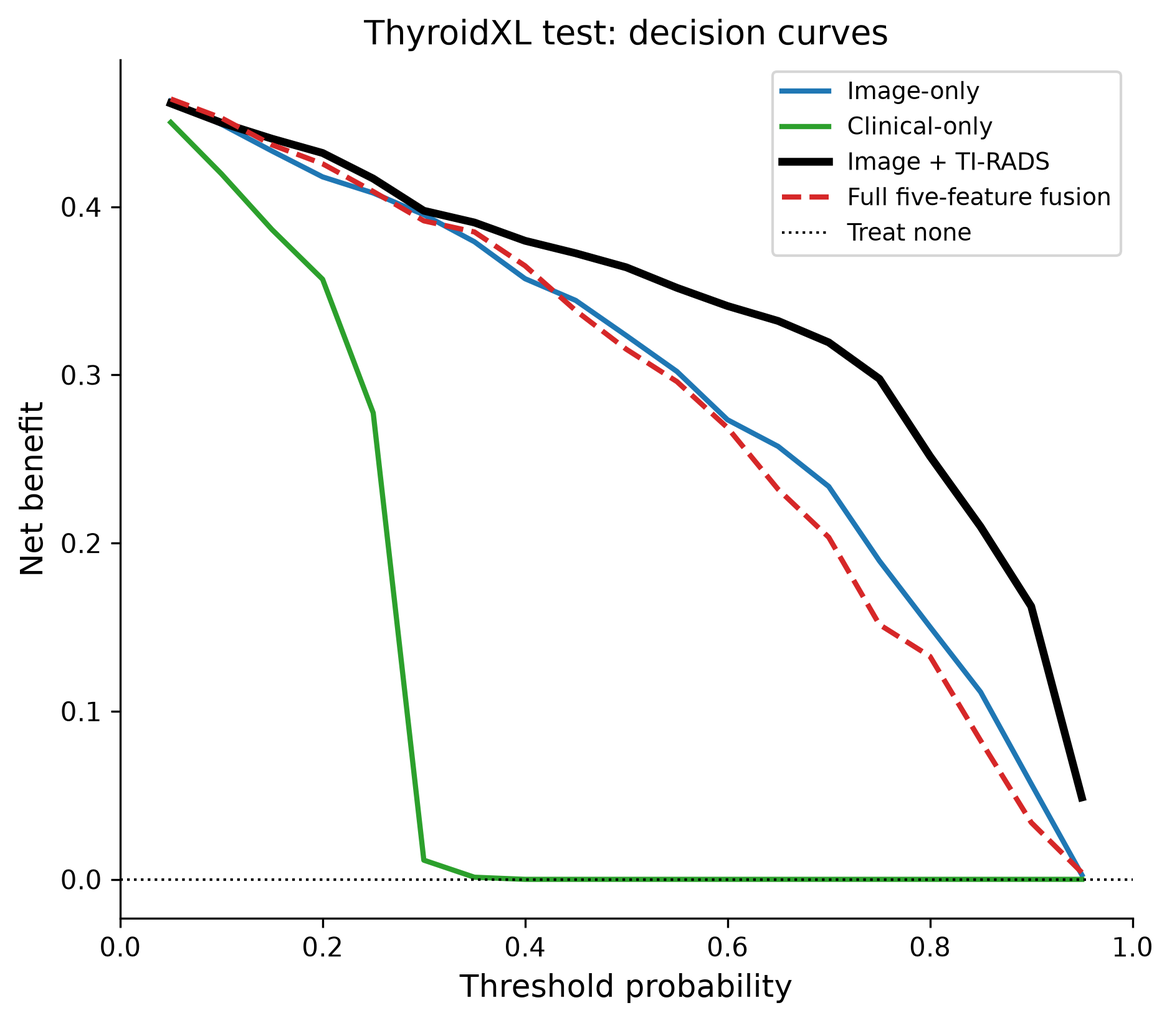
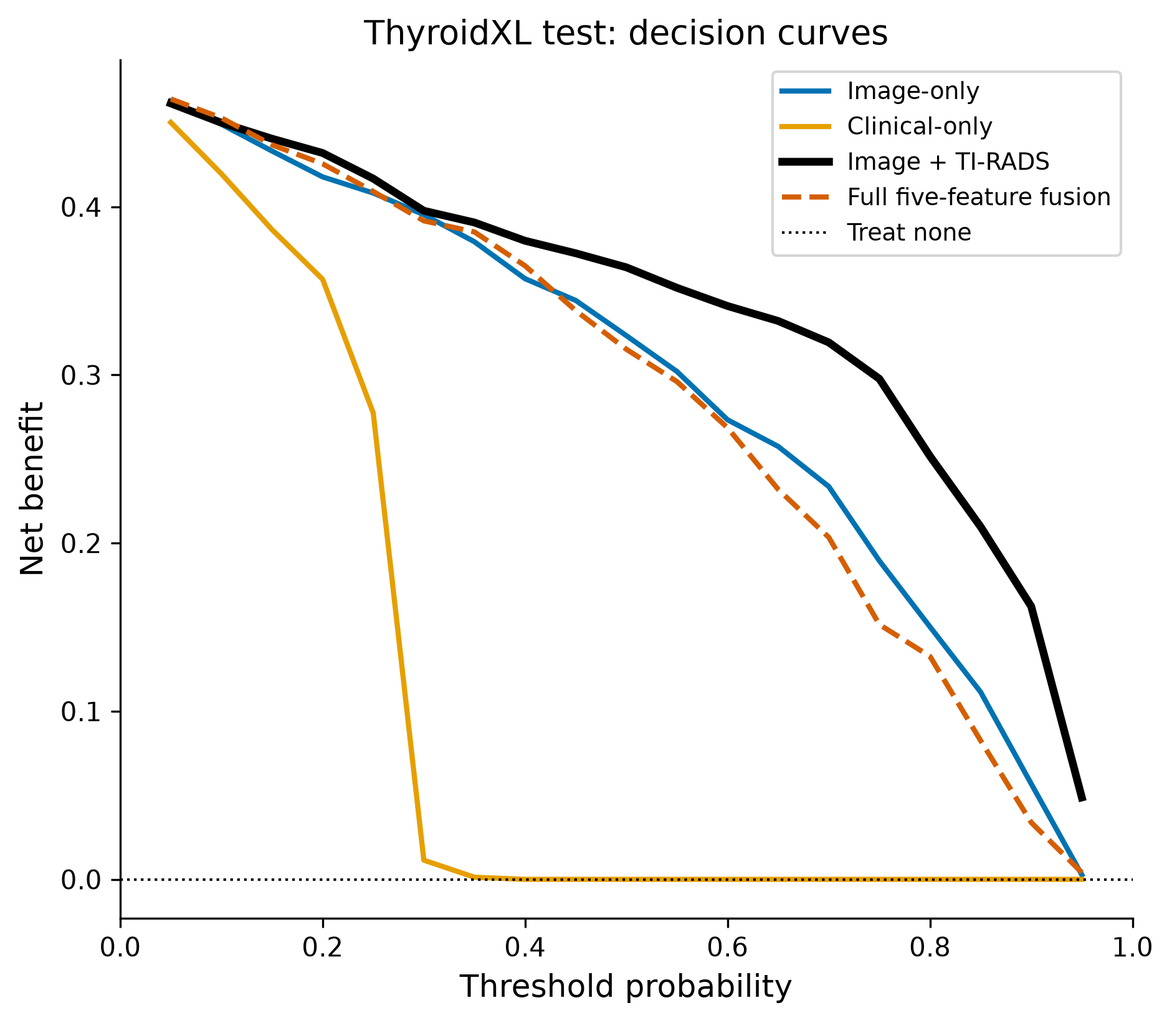
Final polish: de-AI prose pass (EN/ZH), domain-shift and TI-RADS discussion additions, cover letter rewrite, colourblind-safe palette, console warning cleanup

diff --git a/paper/scripts/plot_thyroidxl_fusion.py b/paper/scripts/plot_thyroidxl_fusion.py
@@ -42,10 +42,10 @@ from thyroid.models.thyroid import ThyroidClassifier
 FIG_DIR = PROJ / "paper" / "figures"
 CLIN5 = ["tirads", "width_mm", "height_mm", "age", "gender"]
 MODELS = [
-    {"key": "image",    "ckpt": "checkpoints/thyroid/image/best.pt",                "cols": CLIN5, "label": "Image-only",      "color": "#1f77b4", "ls": "-",  "lw": 2},
-    {"key": "clinical", "ckpt": "checkpoints/thyroid/clinical/best.pt",             "cols": CLIN5, "label": "Clinical-only",  "color": "#2ca02c", "ls": "-",  "lw": 2},
+    {"key": "image",    "ckpt": "checkpoints/thyroid/image/best.pt",                "cols": CLIN5, "label": "Image-only",      "color": "#0072B2", "ls": "-",  "lw": 2},
+    {"key": "clinical", "ckpt": "checkpoints/thyroid/clinical/best.pt",             "cols": CLIN5, "label": "Clinical-only",  "color": "#E69F00", "ls": "-",  "lw": 2},
     {"key": "tirads",   "ckpt": "checkpoints/thyroid/ablation_img_tirads/best.pt",  "cols": ["tirads"], "label": "Image + TI-RADS", "color": "#000000", "ls": "-",  "lw": 3},
-    {"key": "fusion",   "ckpt": "checkpoints/thyroid/fusion/best.pt",               "cols": CLIN5, "label": "Full five-feature fusion",    "color": "#d62728", "ls": "--", "lw": 2},
+    {"key": "fusion",   "ckpt": "checkpoints/thyroid/fusion/best.pt",               "cols": CLIN5, "label": "Full five-feature fusion",    "color": "#D55E00", "ls": "--", "lw": 2},
 ]
 
 

diff --git a/paper/scripts/analyze_threshold.py b/paper/scripts/analyze_threshold.py
@@ -28,10 +28,10 @@ from thyroid.models.thyroid import ThyroidClassifier
 
 CLIN5 = ["tirads", "width_mm", "height_mm", "age", "gender"]
 MODELS = [
-    {"key": "image",    "ckpt": "checkpoints/thyroid/image/best.pt",                "cols": CLIN5, "label": "Image-only",      "color": "#1f77b4"},
-    {"key": "clinical", "ckpt": "checkpoints/thyroid/clinical/best.pt",             "cols": CLIN5, "label": "Clinical-only",  "color": "#2ca02c"},
+    {"key": "image",    "ckpt": "checkpoints/thyroid/image/best.pt",                "cols": CLIN5, "label": "Image-only",      "color": "#0072B2"},
+    {"key": "clinical", "ckpt": "checkpoints/thyroid/clinical/best.pt",             "cols": CLIN5, "label": "Clinical-only",  "color": "#E69F00"},
     {"key": "tirads",   "ckpt": "checkpoints/thyroid/ablation_img_tirads/best.pt",  "cols": ["tirads"], "label": "Image + TI-RADS", "color": "#000000"},
-    {"key": "fusion",   "ckpt": "checkpoints/thyroid/fusion/best.pt",               "cols": CLIN5, "label": "Full five-feature fusion",    "color": "#d62728"},
+    {"key": "fusion",   "ckpt": "checkpoints/thyroid/fusion/best.pt",               "cols": CLIN5, "label": "Full five-feature fusion",    "color": "#D55E00"},
 ]
 FIG_DIR = PROJ / "paper" / "figures"
 

diff --git a/prepare_thyroidxl.py b/prepare_thyroidxl.py
@@ -42,7 +42,7 @@ def load_annotations(ann_path):
         pid = str(img["patient_id"]).zfill(8)     # e.g. '126' -> '00000126'
         m = meta.get(pid)
         if m is None:
-            print(f"  ⚠ 患者 {pid} 无 meta，跳过 {img['file_name']}")
+            print(f"  警告：患者 {pid} 无 meta，跳过 {img['file_name']}")
             continue
         nod = m.get("nodule_1") or {}
         out[img["file_name"]] = {
@@ -109,7 +109,7 @@ def main():
             if not (img_dir / fn).exists():
                 missing += 1
                 if missing <= 5:
-                    print(f"  ⚠ 缺图: {split}/images/{fn}")
+                    print(f"  警告：缺图: {split}/images/{fn}")
     if missing:
         print(f"缺图 {missing} 张，先完成下载再构建 manifest")
         sys.exit(1)

diff --git a/eval_thyroid.py b/eval_thyroid.py
@@ -87,7 +87,7 @@ def main():
                 if num_clin == len(_tcol) and all(c in _header for c in _tcol):
                     clinical_cols = list(_tcol)
         if clinical_cols is None and mc.get("use_clinical", False):
-            print("  ⚠ 未指定 --clinical_columns 且 checkpoint 未记录列名；将使用默认 ACR 列（缺失值补 0）")
+            print("  警告：未指定 --clinical_columns 且 checkpoint 未记录列名；将使用默认 ACR 列（缺失值补 0）")
     if clinical_cols:
         print(f"  [clinical] 使用列: {clinical_cols}")
     ds = ThyroidDataset(data_root, split=args.split, image_size=224,

diff --git a/train_thyroid.py b/train_thyroid.py
@@ -273,7 +273,7 @@ def main():
                 else PROJECT_ROOT / "checkpoints" / "thyroid" / args.ablation)
     save_dir.mkdir(parents=True, exist_ok=True)
     if (save_dir / "best.pt").exists():
-        print(f"⚠ 警告：{save_dir / 'best.pt'} 已存在，训练将覆盖它")
+        print(f"警告：{save_dir / 'best.pt'} 已存在，训练将覆盖它")
     log_csv = save_dir / "metrics.csv"
     with open(log_csv, "w", newline="", encoding="utf-8") as f:
         csv.writer(f).writerow(["epoch", "loss", "val_auc", "auc_lo", "auc_hi",

diff --git a/paper/scripts/subgroup_analysis.py b/paper/scripts/subgroup_analysis.py
@@ -55,7 +55,7 @@ NOTES_DIR.mkdir(parents=True, exist_ok=True)
 
 CLIN = ["tirads", "width_mm", "height_mm", "age", "gender"]
 ABLATIONS = ["image", "clinical", "fusion"]
-COLORS = {"image": "#1f77b4", "clinical": "#2ca02c", "fusion": "#d62728"}
+COLORS = {"image": "#0072B2", "clinical": "#E69F00", "fusion": "#D55E00"}
 LABELS = {"image": "Image-only", "clinical": "Clinical-only", "fusion": "Full five-feature fusion"}
 MANIFEST = PROJ / "data" / "thyroid" / "thyroidxl" / "manifest.csv"
 

diff --git a/paper/scripts/summarize_thyroidxl.py b/paper/scripts/summarize_thyroidxl.py
@@ -28,7 +28,7 @@ def main():
     for ab in ABLATIONS:
         d = load_eval(ab)
         if d is None:
-            print(f"⚠ {ab}: eval_test.json 不存在")
+            print(f"警告：{ab}: eval_test.json 不存在")
             continue
         m = d["metrics"]
         rows.append({

diff --git a/paper/output/doc/manuscript_zh.md b/paper/output/doc/manuscript_zh.md
@@ -25,7 +25,7 @@
 
 甲状腺结节是最常见的内分泌发现之一：一项一般人群荟萃分析估计其汇总患病率为 24.8%（95% CI 21.4–28.6%）[1]，其中绝大多数为良性。这一高患病率，加上甲状腺癌发病率的上升，引发了对过度诊断和不必要手术的担忧 [2]。甲状腺超声因无创、无辐射且应用广泛，仍是结节评估的一线影像手段；但判读带有主观性、高度依赖操作者，且良恶性结节的声像图特征相互重叠，限制了诊断的可重复性 [3]。
 
-深度学习已成为支持甲状腺结节分类、分割与检测的有力工具 [4,5,6]。大量基于卷积神经网络和视觉变换器的模型在内部测试集上报告了很高的诊断准确率 [7,8]。若干开放数据集加速了这一进展，包括 DDTI（637 张）[9]、TN3K（3,493 张）[10,11]、TN5000（5,000 张，含活检确认）[12]、专家标注的 ThyroidXL 基准（11,635 张）[13]，以及经病理确认的 Thy-Wise 队列（3,954 个结节）[14]。尽管如此，文献仍存在三点局限。其一，多数研究仅在单一数据集上评估；同一机构训练并测试的模型，会因医院、超声设备与患者人群之间的域漂移而高估真实世界的性能。其二，绝大多数模型为纯图像模型，弃用了放射科医生日常使用的结构化患者与结节信息，例如 ACR TI-RADS 描述符。其三，已报道的模型很少包含校准指标或决策曲线分析，而这些对评估临床效用至关重要。
+深度学习已成为支持甲状腺结节分类、分割与检测的有力工具 [4,5,6]。大量基于卷积神经网络和视觉变换器的模型在内部测试集上报告了很高的诊断准确率 [7,8]。若干开放数据集加速了这一进展，包括 DDTI（637 张）[9]、TN3K（3,493 张）[10,11]、TN5000（5,000 张，含活检确认）[12]、专家标注的 ThyroidXL 基准（11,635 张）[13]，以及经病理确认的 Thy-Wise 队列（3,954 个结节）[14]。尽管如此，文献仍存在三点局限。其一，多数研究仅在单一数据集上评估，同一机构训练并测试的模型会因域漂移而高估真实世界的性能。超声采集依赖操作者与设备：扫描仪厂商、探头频率、增益与聚焦设置以及切面选择都会改变同一结节的像素统计，转诊人群的恶性患病率也各不相同。这些因素在模型应用于另一中心时可能同时损害判别力与校准。其二，绝大多数模型为纯图像模型，弃用了放射科医生日常使用的结构化患者与结节信息，例如 ACR TI-RADS 描述符。其三，已报道的模型很少包含校准指标或决策曲线分析，而这些对评估临床效用至关重要。
 
 ACR TI-RADS 词表对结节的成分、回声、形态、边缘和强回声灶给出标准化、按语义定义的描述，其总分是经过验证的恶性风险预测因子 [3]。由于这些描述符按语义而非像素统计定义，原则上受采集条件变化的影响小于原始像素，但在实际中它们来自超声评估，因而与图像采集存在一定依赖。将这类结构化患者与结节特征与图像深度特征融合能否改善分类、增益能否跨数据集保持稳健，据我们所知，尚未在公共多队列数据上得到系统检验。为此，我们评估了一个将图像特征与结构化患者与结节特征（ACR TI-RADS 评分、结节宽、结节高、年龄、性别）相结合的完整五特征融合模型，并量化了该模型相对纯图像与纯临床配置的内部增益及行为。
 
@@ -104,7 +104,7 @@ ThyroidXL 数据集（Duong 等，MICCAI 2025）[13] 包含在越南国家内分
 
 ### 3.4 联合多数据集训练改善内部与外部性能
 
-将 TN5000 与 TN3K 训练子集合并（合并清单共 7,129 张图像：6,379 张训练加 750 张验证）进行联合训练，内部判别力得到适度提升，外部性能则显著改善。联合模型验证 AUC 达 0.932（95% CI 0.910–0.953），独立 TN5000 测试 AUC 为 0.931（95% CI 0.910–0.951），灵敏度 94.8%、特异度 75.7%（期望校准误差 0.020）。在官方 TN3K 测试集（n = 614）上，外部 AUC 由 0.729 提升至 0.813（95% CI 0.779–0.846；匹配 Δ = +0.085），灵敏度 67.4%、特异度 78.8%、期望校准误差 0.050（表 2；图 2–4）。可见，联合训练在外部 TN3K 队列上恢复了约一半的观测 AUC 损失。需要说明的是，官方 TN3K 测试集属于目标域保留评估：TN3K 训练图像已参与联合模型训练；相比之下，Thy-Wise 从未提供训练数据，是完全未见的队列。在固定 0.5 决策阈值下，TN3K 官方测试集上的净获益由单数据集的 0.062 提升至联合模型的 0.129（"不治疗任何患者"为 0.000；图 3b），并与固定 0.5 阈值下更高的净获益相关，提示潜在的临床效用。
+将 TN5000 与 TN3K 训练子集合并（合并清单共 7,129 张图像：6,379 张训练加 750 张验证）进行联合训练，内部判别力得到适度提升，外部性能则显著改善。联合模型验证 AUC 达 0.932（95% CI 0.910–0.953），独立 TN5000 测试 AUC 为 0.931（95% CI 0.910–0.951），灵敏度 94.8%、特异度 75.7%（期望校准误差 0.020）。在官方 TN3K 测试集（n = 614）上，外部 AUC 由 0.729 提升至 0.813（95% CI 0.779–0.846；匹配 Δ = +0.085），灵敏度 67.4%、特异度 78.8%、期望校准误差 0.050（表 2；图 2–4）。可见，联合训练在外部 TN3K 队列上恢复了约一半的观测 AUC 损失。官方 TN3K 测试集属于目标域保留评估：TN3K 训练图像已参与联合模型训练；相比之下，Thy-Wise 从未提供训练数据，是完全未见的队列。在固定 0.5 决策阈值下，TN3K 官方测试集上的净获益由单数据集的 0.062 提升至联合模型的 0.129（"不治疗任何患者"为 0.000；图 3b），并与固定 0.5 阈值下更高的净获益相关，提示潜在的临床效用。
 
 这一增益还传递到了第二个完全独立的队列。应用于 Thy-Wise（来自第三家机构的 3,954 个病理确诊结节）时，单数据集（仅 TN5000）模型的结节级 AUC 为 0.608（95% CI 0.589–0.628），联合训练将其提升至 0.710（95% CI 0.693–0.727；Δ = +0.102），期望校准误差 0.057。计算指标前，先将结节内的图像级概率取平均。图像级统计明显更低（单数据集 AUC 0.540；联合 AUC 0.607；补充表 S1b），这是因为每个结节包含多张部分冗余的帧；因此采用结节级聚合作为主要外部估计。联合训练在 Thy-Wise 上的增益（+0.102）与 TN3K 上的增益（+0.085）相当，表明多数据集训练的优势可传递到未见分布。
 
@@ -150,7 +150,7 @@ ThyroidXL 数据集（Duong 等，MICCAI 2025）[13] 包含在越南国家内分
 
 为检验结构化患者与结节特征是否优于纯图像分类，我们在 ThyroidXL 训练队列（见 2.2 节）上评估了纯图像、纯临床、完整五特征融合及特征特异融合配置，并在保留的 ThyroidXL 测试队列（2,094 张图像、739 个结节）上评估，通过取平均将图像级概率聚合到结节级。结果汇总于表 4、表 5 与图 5–8。
 
-图像 + TI-RADS 模型的结节级 AUC 最高（0.960，95% CI 0.948–0.973），五特征融合模型次之（0.947，95% CI 0.932–0.960），纯图像模型再次（0.939，95% CI 0.924–0.954）（表 4）。预指定的五特征融合相对纯图像的增益具有统计学显著性（ΔAUC +0.007；配对 bootstrap 95% CI 0.002–0.013，p = 0.012），而特征级消融（表 6）显示图像 + TI-RADS 的增益更大（ΔAUC +0.021）。五特征融合的 AUPRC（0.939 对 0.930）与特异度（0.940 对 0.909）高于纯图像，但灵敏度略有下降（0.725 对 0.779）。在探索性阈值分析中，我们在测试队列上确定的约登最优工作点考察了预测值：图像 + TI-RADS 模型取得均衡的阳性与阴性预测值（PPV 0.860、NPV 0.943），高于完整五特征融合（PPV 0.856、NPV 0.898）、纯图像（PPV 0.815、NPV 0.920）与纯临床（PPV 0.688、NPV 0.835）模型，提示最佳配置的判别力增益并非以较差的预测值为代价（图 8）。由于该工作点源自测试队列，这些预测值反映的是约登最优阈值下可达到的性能，而非无偏的前瞻估计。ThyroidXL 测试队列恶性比例为 47.8%，高于开发集的 26.1%；这一患病率差异与解读此处报告的固定阈值与约登最优阈值工作点相关。仅使用五项结构化特征的纯临床模型明显逊色（AUPRC 0.735），在固定 0.5 阈值下退化为将所有结节判为良性（灵敏度 0.00、特异度 1.00）；这既反映出这五项特征单独所含的预测信息有限，也反映出开发集恶性患病率低（26.1%），使预测概率被压缩在固定 0.5 阈值之下；纯临床模型的价值因此在于其排序能力（结节级 AUC 0.814），而非固定工作点下的绝对概率。校准方面，纯图像模型最优（ECE 0.087），纯临床模型明显欠佳（ECE 0.248），完整五特征融合模型居中（ECE 0.118）；融合带来的判别力增益因此以相对纯图像的轻微校准损失为代价。Brier 分数呈现相同排序（纯图像 0.110、融合 0.113、纯临床 0.293）。
+图像 + TI-RADS 模型的结节级 AUC 最高（0.960，95% CI 0.948–0.973），五特征融合模型次之（0.947，95% CI 0.932–0.960），纯图像模型再次（0.939，95% CI 0.924–0.954）（表 4）。预指定的五特征融合相对纯图像的增益具有统计学显著性（ΔAUC +0.007；配对 bootstrap 95% CI 0.002–0.013，p = 0.012），而特征级消融（表 6）显示图像 + TI-RADS 的增益更大（ΔAUC +0.021）。五特征融合的 AUPRC（0.939 对 0.930）与特异度（0.940 对 0.909）高于纯图像，但灵敏度略有下降（0.725 对 0.779）。在探索性阈值分析中，我们在测试队列上确定的约登最优工作点考察了预测值。图像 + TI-RADS 模型取得均衡的阳性与阴性预测值（PPV 0.860、NPV 0.943），高于完整五特征融合（PPV 0.856、NPV 0.898）、纯图像（PPV 0.815、NPV 0.920）与纯临床（PPV 0.688、NPV 0.835）模型。最佳配置的判别力增益并非以较差的预测值为代价（图 8）。由于该工作点源自测试队列，这些预测值反映的是约登最优阈值下可达到的性能，而非无偏的前瞻估计。ThyroidXL 测试队列恶性比例为 47.8%，高于开发集的 26.1%；这一患病率差异与解读此处报告的固定阈值与约登最优阈值工作点相关。仅使用五项结构化特征的纯临床模型明显逊色（AUPRC 0.735），在固定 0.5 阈值下退化为将所有结节判为良性（灵敏度 0.00、特异度 1.00）。这既反映出这五项特征单独所含的预测信息有限，也反映出开发集恶性患病率低（26.1%），使预测概率被压缩在固定 0.5 阈值之下。纯临床模型的价值因此在于其排序能力（结节级 AUC 0.814），而非固定工作点下的绝对概率。校准方面，纯图像模型最优（ECE 0.087），纯临床模型明显欠佳（ECE 0.248），完整五特征融合模型居中（ECE 0.118）；融合带来的判别力增益因此以相对纯图像的轻微校准损失为代价。Brier 分数呈现相同排序（纯图像 0.110、融合 0.113、纯临床 0.293）。
 
 作为临床参照，单独的专家 ACR TI-RADS 总分（一种广泛使用的风险分层工具）在同一测试队列上取得结节级 AUC 0.929（AUPRC 0.887），在 TI-RADS-4.5 阈值下灵敏度 79.3%、特异度 95.6%。纯图像模型（0.939）与完整五特征融合模型（0.947）在判别力上均超过这一专家评分基线，说明深度模型提取了 TI-RADS 总分之外的判别信息，不过相对临床参照的增量有限（完整五特征融合模型 Δ AUC +0.018）。纯临床 MLP 模型（0.814）低于直接使用 TI-RADS 评分（0.929），反映出将原始五项特征回归为单一风险估计时的信息损失。
 
@@ -168,7 +168,7 @@ ThyroidXL 数据集（Duong 等，MICCAI 2025）[13] 包含在越南国家内分
 
 灵敏度与特异度在固定 0.5 决策阈值下报告；专家 TI-RADS 行的 ^e^ 灵敏度与特异度在 TI-RADS-4.5 阈值下报告，且因专家评分为 1–5 的序数尺度而非连续概率，ACC、ECE 与 Brier 不适用。AUPRC = 精确率-召回率曲线下面积。表 4 报告种子 42 单次运行估计。
 
-作为稳健性检查，另用相同协议（pos_weight = 1.0）训练了两个不同种子（123 和 2024）的融合模型；各种子 AUC 介于 0.947–0.949，三个模型测试预测取平均将结节级 AUC 提升至 0.951（95% CI 0.937–0.964）、AUPRC 至 0.944（补充表 S3），证实消融结果对训练种子变化的稳健性。融合相对纯图像的增益具有统计学显著性（ΔAUC +0.007；配对 bootstrap 95% CI 0.002–0.013，p = 0.012）。
+作为稳健性检查，另用相同协议（pos_weight = 1.0）训练了两个不同种子（123 和 2024）的融合模型。各种子 AUC 介于 0.947–0.949，三个模型测试预测取平均将结节级 AUC 提升至 0.951（95% CI 0.937–0.964）、AUPRC 至 0.944（补充表 S3）。消融结果因此对训练种子变化保持稳健。融合相对纯图像的增益具有统计学显著性（ΔAUC +0.007；配对 bootstrap 95% CI 0.002–0.013，p = 0.012）。
 
 **特征级消融。** 为定位结构化特征增益的来源，我们在相同协议下训练了"图像 + 各结构化特征子集"的融合变体（表 5）。仅加入专家 TI-RADS 总分即带来最大提升（结节级 AUC 0.960，95% CI 0.948–0.973），高于纯图像（0.939）与完整五特征融合（0.947）；加入结节尺寸（0.948）或人口学特征（0.944）相对纯图像几乎无增益，且完整五特征融合并未超过"图像 + TI-RADS"。因此，本队列中结构化信息的增量价值主要来自专家 TI-RADS 评分。图像 + TI-RADS 与纯图像之间的差异在配对 bootstrap 分析中具有统计学显著性（ΔAUC +0.021，95% CI 0.008–0.035，双侧 p = 0.003）。
 
@@ -224,19 +224,21 @@ ThyroidXL 数据集（Duong 等，MICCAI 2025）[13] 包含在越南国家内分
 
 我们系统评估了一个甲状腺结节恶性分类器在四个公共数据集上的外部泛化能力，并检验了两种可能的缓解策略：多数据集训练与结构化患者与结节特征。得出三项主要发现。第一，在单一数据集上训练的纯图像模型内部判别力高（测试 AUC 0.915），但外部性能显著下降（TN3K 上 AUC 0.712；Thy-Wise 结节级 0.608），这一单队列评估中不可见的跨数据集差距量化了域漂移。第二，两数据集联合训练在加入训练的队列上恢复了约一半的观测 AUC 损失（TN3K 官方测试 AUC 0.813 对 0.729），并在完全未见的队列上提供了相近增益（Thy-Wise，0.608 → 0.710）。第三，结构化信息的增量价值主要归因于专家 ACR TI-RADS 评分：将 TI-RADS 加入图像模型使结节级 AUC 由 0.939 提升至 0.960（ΔAUC +0.021），而结节尺寸与人口学特征的额外判别贡献甚微。在整个分析中，除判别力外，我们还报告了校准（ECE 与 Brier 分数）与决策曲线指标，并在 ThyroidXL 队列上报告纯图像、纯临床、完整五特征融合与特征特异融合配置的模型比较（见 3.5 节），弥补了该领域常见的报告空白。
 
-**域漂移是转化的核心障碍。** 外部下降值得强调，因为它反映了内部测试无法暴露的因素：TN5000 与 TN3K 由不同机构的不同设备采集，标签患病率也显著不同（恶性 71.5% 对 34.6%），这在一定程度上解释了固定阈值下灵敏度的相应下降。第二个外部队列（Thy-Wise）进一步证实漂移幅度具有队列特异性。域适应文献中已有超声模型跨设备迁移时性能类似退化的报道 [17,18]。我们的结果与"单数据集 AUC 显著高估真实世界性能"这一日益形成的共识一致，并支持临床部署前进行外部验证的重要性 [16]。
+**域漂移是转化的核心障碍。** 外部下降值得强调，因为它反映了内部测试无法暴露的因素：TN5000 与 TN3K 由不同机构的不同设备采集，标签患病率也显著不同（恶性 71.5% 对 34.6%），这在一定程度上解释了固定阈值下灵敏度的相应下降。第二个外部队列（Thy-Wise）进一步证实漂移幅度具有队列特异性。与 CT 或 MRI 等采集流程大体标准化的影像不同，超声依赖操作者与设备：探头频率、增益与聚焦设置以及切面选择都会改变同一结节的图像统计，转诊人群的恶性患病率也各不相同。患病率偏移既影响判别力也影响校准，因为在 71.5% 恶性队列上训练的模型，在恶性率更低的人群（TN3K 34.6%、Thy-Wise 27.3%）中会表现出不同的工作特性。域适应文献中已有超声模型跨设备迁移时性能类似退化的报道 [17,18]。我们的结果与"单数据集 AUC 显著高估真实世界性能"这一日益形成的共识一致，并支持临床部署前进行外部验证的重要性 [16]。
 
 **联合多数据集训练有助于加入训练中的队列，且增益可传递到未见队列。** 将 TN3K 训练图像加入 TN5000 训练池后，官方 TN3K 测试集的外部 AUC 提升 +0.085，约一半的观测 AUC 损失得到恢复；当目标队列图像可纳入训练时，这是一种务实的稳健性策略。关键的迁移结果是：在完全独立、从未提供训练数据的 Thy-Wise 队列上取得了相近增益（+0.102）。两个队列上仍存在的差距（绝对 AUC 分别为 0.813 与 0.710，远低于内部 0.931）表明，多数据集合并本身并不能消除域漂移，还应对结构化患者与结节特征等额外稳健性策略加以评估。等样本量对照（见 3.4 节）表明，这一增益并非单纯由样本量造成：在匹配训练样本量时，多数据集对照模型已改善了目标域外部测试（TN3K AUC 0.729 → 0.792）。
 
-**结构化患者与结节特征补充但不主导图像特征。** "结构化患者与结节先验（专家 ACR TI-RADS 评分、结节宽、结节高、年龄与性别）能否在域漂移下稳定预测"这一假设，在 ThyroidXL 消融中得到了直接检验：年龄与性别独立于图像采集，而 TI-RADS 评分与结节尺寸是源自超声评估的结构化测量，在像素统计退化时仍可能保有信息。结构化信息的增量价值主要归因于专家 TI-RADS 评分而非人口学或尺寸特征（见 3.5 节）。值得注意的是，加入全部五项结构化特征并未比仅加入 TI-RADS 更好：完整五特征融合（AUC 0.947）并未超过图像 + TI-RADS（AUC 0.960）。这可能反映结构化变量之间的冗余、年龄/性别/结节尺寸的增量信息有限，或多模态头部的优化效应；重要的是，特征级消融表明这一增益并非来自不加区分的特征堆叠。纯临床模型明显逊色（AUC 0.814）且校准较差（ECE 0.248）。完整五特征融合模型的校准略逊于纯图像模型（ECE 0.118 对 0.087），表明加入的结构化特征改善了排序而未同比例改善固定决策阈值下预测概率的可靠性。由此可得两点启示。其一，图像特征仍是主要判别信号，但专家 TI-RADS 评分带来了实质性的增量增益（结节级 AUC 0.939 → 0.960），而人口学与尺寸特征贡献甚微（见 3.5 节）。其二，仅凭结构化特征（纯临床模型，AUC 0.814）不足以实现可靠判别。图像 + TI-RADS 相对纯图像的大幅增益与以下理解一致：TI-RADS 编码的结构化专家评估与从原始超声像素中提取的信息相关但不完全相同。这在一定程度上修正了"设备无关先验"的定位：只有部分特征（年龄与性别）真正独立于图像采集，结构化特征更像是有用的补充信号，而非图像分析的替代品。与依赖自由文本放射学报告 [19,20] 或对比增强序列 [21] 的多模态方法不同，我们的框架仅使用常规 B 型超声加结构化值，无需额外采集。
+**结构化患者与结节特征补充但不主导图像特征。** "结构化患者与结节先验（专家 ACR TI-RADS 评分、结节宽、结节高、年龄与性别）能否在域漂移下稳定预测"这一假设，在 ThyroidXL 消融中得到了直接检验：年龄与性别独立于图像采集，而 TI-RADS 评分与结节尺寸是源自超声评估的结构化测量，在像素统计退化时仍可能保有信息。结构化信息的增量价值主要归因于专家 TI-RADS 评分而非人口学或尺寸特征（见 3.5 节）。加入全部五项结构化特征并未比仅加入 TI-RADS 更好：完整五特征融合（AUC 0.947）并未超过图像 + TI-RADS（AUC 0.960）。这可能反映结构化变量之间的冗余、年龄/性别/结节尺寸的增量信息有限，或多模态头部的优化效应；重要的是，特征级消融表明这一增益并非来自不加区分的特征堆叠。纯临床模型明显逊色（AUC 0.814）且校准较差（ECE 0.248）。完整五特征融合模型的校准略逊于纯图像模型（ECE 0.118 对 0.087），表明加入的结构化特征改善了排序而未同比例改善固定决策阈值下预测概率的可靠性。由此可得两点启示。其一，图像特征仍是主要判别信号，但专家 TI-RADS 评分带来了实质性的增量增益（结节级 AUC 0.939 → 0.960），而人口学与尺寸特征贡献甚微（见 3.5 节）。其二，仅凭结构化特征（纯临床模型，AUC 0.814）不足以实现可靠判别。图像 + TI-RADS 相对纯图像的大幅增益与以下理解一致：TI-RADS 编码的结构化专家评估与从原始超声像素中提取的信息相关但不完全相同。这在一定程度上修正了"设备无关先验"的定位：只有部分特征（年龄与性别）真正独立于图像采集，结构化特征更像是有用的补充信号，而非图像分析的替代品。与依赖自由文本放射学报告 [19,20] 或对比增强序列 [21] 的多模态方法不同，我们的框架仅使用常规 B 型超声加结构化值，无需额外采集。
 
 亚组分析（见 3.6 节）为上述发现增添了两点临床相关的细节。其一，融合增益集中在图像判别最不确定的亚组：低中危 TI-RADS 组（TR2-3，Δ AUC +0.046）与小（≤20 mm）结节，在高度恶性的 TR5 组中较小（+0.013）、在 >20 mm 结节中为负（−0.017）。这一模式与"结构化风险信息在图像特征模糊处可能更有用"的假设一致，提示临床分支在不确定结节的分诊中最具价值。其二，未观察到融合获益存在有意义的性别或年龄相关差异。TR2-3 亚组仅含四个恶性结节，置信区间宽，不应过度解读其最大点估计；亚组结果有待在更大、多设备的队列中确认。
 
+**实际应用中的一个注意事项。** 表现最佳的配置仍依赖专家 TI-RADS 评分，因此并非完全自动化。但这并不意味着不再需要 AI：纯图像分析本身已与 TI-RADS 总分相当（AUC 0.939 对 0.929），两者结合又优于任一单独使用。最合理的临床定位是作为第二意见，在融合增益最大的低中危结节中减少低年资判读的主观性，而非取代报告医生。常规部署需要在读片流程中系统纳入专家评分，或实现 TI-RADS 描述符的自动提取，后者是当前活跃的研究方向 [4]。
+
 **与近期 ThyroidXL 研究比较。** 自 ThyroidXL 发布以来，已有框架在纯图像输入下报告了很高的患者级性能：一种带注意力多实例学习的区域与上下文感知融合方法，在 ThyroidXL 上报告的患者级测试 AUC 达 0.993 [22]。该方法与本研究在三个与临床转化相关的方面存在差异。其一，它推理时需要结节分割掩膜（病灶聚焦分支与掩膜相乘），而我们的框架仅使用 B 型图像，在缺乏自动或手动掩膜时同样适用。其二，它在患者内用学习到的注意力聚合帧，而我们使用固定的平均聚合，更简单且不引入额外学习参数。其三，它不使用结构化患者与结节特征。由于这些方法学差异，我们的结果在绝对数值上不能直接与之比较；特别是，纯图像模型在 ThyroidXL 上较低 AUC 恰恰反映了缺乏掩膜引导。平均池化对两个模型均优于最大池化与注意力加权池化（补充表 S2），说明该掩膜方法报告的高患者级 AUC 并非源于其注意力池化。本研究反而聚焦掩膜方法未处理的问题，即跨数据集域漂移量化与结构化患者与结节特征的增量价值。
 
-**校准与决策曲线报告。** 仅凭判别力不足以支撑临床使用。单数据集模型内部校准良好（ECE 0.042），但外部校准明显欠佳（完整 TN3K 队列 ECE 0.120；官方测试集 ECE 0.120）；联合训练改善了官方 TN3K 测试集上的校准（ECE 0.050；表 2）。可见校准与判别力一样，在域漂移下同步退化。决策曲线（图 7）进一步表明，模型在一系列阈值概率下均提供净收益；在固定 0.5 阈值下，图像 + TI-RADS 模型的净收益最高（0.364），其次为纯图像（0.325）与完整五特征融合（0.315），而"不治疗任何患者"为 0。在固定 0.5 决策阈值下，灵敏度（内部 90.6%）高于特异度（75.2%），这既源于训练数据的类别不平衡（71.5% 恶性），也反映了结节分诊的临床权衡——过度转诊优于漏诊恶性。工作点应结合临床场景选择，决策曲线为此提供了明确的依据。
+**校准与决策曲线报告。** 仅凭判别力不足以支撑临床使用。单数据集模型内部校准良好（ECE 0.042），但外部校准明显欠佳（完整 TN3K 队列 ECE 0.120；官方测试集 ECE 0.120）；联合训练改善了官方 TN3K 测试集上的校准（ECE 0.050；表 2）。可见校准与判别力一样，在域漂移下同步退化。决策曲线（图 7）进一步表明，模型在一系列阈值概率下均提供净收益；在固定 0.5 阈值下，图像 + TI-RADS 模型的净收益最高（0.364），其次为纯图像（0.325）与完整五特征融合（0.315），而"不治疗任何患者"为 0。在固定 0.5 决策阈值下，灵敏度（内部 90.6%）高于特异度（75.2%），这既源于训练数据的类别不平衡（71.5% 恶性），也反映了结节分诊的临床权衡——过度转诊优于漏诊恶性。工作点应结合临床场景选择，决策曲线为此提供了明确的依据。这些结果也说明校准受患病率影响：纯临床模型在恶性率为 26.1% 的开发集上训练，在高患病率测试队列（47.8% 恶性）中系统性置信不足，这正是其 ECE 达 0.248 的原因；完整融合模型 ECE 略高于纯图像（0.118 对 0.087），可能反映来自校准不佳的临床分支的贡献。温度缩放使融合模型获得适度改善（ECE 0.118 → 0.109），因此当模型部署到患病率与开发集不同的机构时，应重新评估概率后处理。
 
-**错误模式。** 在固定 0.5 阈值下，ThyroidXL 测试队列上的图像 + TI-RADS 模型假阴性多于假阳性（739 个结节中 66 对 18），即倾向于少报恶性（图 10）。这一不对称与 ThyroidXL 开发集较低的恶性患病率（26.1%）及模型较高的特异度相一致；在漏诊恶性后果更严重的临床分诊中，宜采用更低的决策阈值或灵敏度约束的工作点。这凸显了显式选择阈值而非沿用固定默认值的重要性。
+**错误模式。** 在固定 0.5 阈值下，ThyroidXL 测试队列上的图像 + TI-RADS 模型假阴性多于假阳性（739 个结节中 66 对 18），即倾向于少报恶性（图 10）。这一不对称与 ThyroidXL 开发集较低的恶性患病率（26.1%）及模型较高的特异度相一致；在漏诊恶性后果更严重的临床分诊中，宜采用更低的决策阈值或灵敏度约束的工作点。这也说明决策阈值需要显式选择，而不是沿用固定默认值。
 
 **局限性。** 本研究存在几点局限。其一，各数据集标签来自异构参考标准（TN5000 与 Thy-Wise 为活检确认的病理标签，TN3K 为已发表标签 [11]，ThyroidXL 为细胞学/病理标签 [13]），且各数据集患病率不同（图像/结节级恶性率分别为 71.5%、34.6%、27.3% 与 26.1%），使绝对指标的直接比较复杂化。其二，TN5000 在图像级分析，假设每张图像对应一个独立结节；尽管分组划分避免了泄漏，但未对患者内相关性建模；而 Thy-Wise 恰好因结节由多帧表示，在结节级聚合。其三，融合消融在单设备队列（ThyroidXL，由单一超声系统采集）上进行，无法量化临床特征在真正跨设备域漂移下的增量价值；此处观察到的融合增益（Δ AUC +0.007）可能不适用于图像统计退化更显著的多设备场景。其四，我们仅评估了单一架构（EfficientNetV2-S），其他主干的表现可能不同。其五，亚组分析使用的是预先指定的完整五特征融合模型，未针对特征选择后的图像 + TI-RADS 模型重复进行。其六，表现最佳的图像 + TI-RADS 配置仍依赖专家提供的 TI-RADS 评分，因此并非完全自动化；实际部署需要常规专家评分或可靠的 TI-RADS 描述符自动提取。最后，尽管在多个公共数据集上完成了外部验证，本研究仍属回顾性研究；临床部署前需要前瞻性、机构特定的评估。
 
@@ -244,7 +246,9 @@ ThyroidXL 数据集（Duong 等，MICCAI 2025）[13] 包含在越南国家内分
 
 <!-- FIGURE:10 -->
 
-利用四个公共数据集，我们证明：在单一数据集上训练的分类模型内部 AUC 较高，但外部性能显著下降（TN3K 上由 0.91 降至 0.71）；联合多数据集训练在加入训练的队列上恢复了约一半的观测 AUC 损失（外部 AUC 0.813 对匹配官方测试的 0.729，Δ = +0.085）；在第二个完全未见的外部队列（Thy-Wise）上，相同的联合训练提供了相近的增益（结节级 AUC 0.608 → 0.710，+0.102）。由此可见，外部性能高度依赖队列，但多数据集合并的优势可传递到未见分布；纯图像模型在所评估的跨数据集场景下稳健性有限，凸显了临床部署前外部验证的必要性。在第四个队列（ThyroidXL）上，结构化信息的增量价值主要归因于专家 ACR TI-RADS 评分：图像 + TI-RADS 取得结节级 AUC 0.960（相对纯图像 0.939 的配对 ΔAUC +0.021，95% CI 0.008–0.035，p = 0.003），而人口学与尺寸特征增益甚微，完整五特征融合为 0.947；纯临床模型明显逊色（AUC 0.814）且校准较差。综合而言，这些发现支持在超声甲状腺结节分类器临床部署前进行外部验证的重要性，并表明结构化专家评估（TI-RADS）是图像分析的有价值补充，与图像特征结合时取得最大增量增益；图像特征仍是主要判别信号，而专家 TI-RADS 提供了实质性的补充信息。
+## 5. 结论
+
+利用四个公共数据集，我们证明：在单一数据集上训练的分类模型内部 AUC 较高，但外部性能显著下降（TN3K 上由 0.91 降至 0.71）；联合多数据集训练在加入训练的队列上恢复了约一半的观测 AUC 损失（外部 AUC 0.813 对匹配官方测试的 0.729，Δ = +0.085）；在第二个完全未见的外部队列（Thy-Wise）上，相同的联合训练提供了相近的增益（结节级 AUC 0.608 → 0.710，+0.102）。由此可见，外部性能高度依赖队列，但多数据集合并的优势可传递到未见分布；纯图像模型在所评估的跨数据集场景下稳健性有限。这些结果支持临床部署前外部验证的必要性。在第四个队列（ThyroidXL）上，结构化信息的增量价值主要归因于专家 ACR TI-RADS 评分。图像 + TI-RADS 取得结节级 AUC 0.960（相对纯图像 0.939 的配对 ΔAUC +0.021，95% CI 0.008–0.035，p = 0.003），而人口学与尺寸特征增益甚微，完整五特征融合为 0.947。纯临床模型明显逊色（AUC 0.814）且校准较差。综合而言，这些发现支持在超声甲状腺结节分类器临床部署前进行外部验证的重要性，并表明结构化专家评估（TI-RADS）是图像分析的有价值补充，与图像特征结合时取得最大增量增益；图像特征仍是主要判别信号，而专家 TI-RADS 提供了实质性的补充信息。
 
 ## 声明
 

diff --git a/paper/output/doc/manuscript.md b/paper/output/doc/manuscript.md
@@ -77,10 +77,7 @@ Several open-access datasets have accelerated this progress, including DDTI
 images with biopsy confirmation) [12], the expert-labelled ThyroidXL
 benchmark (11,635 images) [13], and the pathologically confirmed
 Thy-Wise cohort (3,954 nodules) [14]. Despite this progress, three limitations
-persist in the literature. First, most studies evaluate on a single dataset,
-where models trained and tested on images from the same institution can
-overestimate real-world performance because of domain shift across hospitals,
-ultrasound devices and patient populations. Second, the vast majority of
+persist in the literature. First, most studies evaluate on a single dataset, and models trained and tested on images from the same institution can overestimate real-world performance. Ultrasound acquisition is operator- and device-dependent: scanner vendor, transducer frequency, gain and focus settings and plane selection alter the pixel statistics of the same nodule, and referral populations differ in malignancy prevalence. These factors can erode both discrimination and calibration when a model is applied at another centre. Second, the vast majority of
 models are image-only and discard structured patient and nodule information that
 radiologists routinely use, such as the American College of Radiology (ACR)
 Thyroid Imaging Reporting and Data System (TI-RADS) descriptors. Third,
@@ -103,13 +100,7 @@ In this study, we systematically evaluate an image-only EfficientNetV2
 classifier across four public datasets to quantify cross-dataset domain
 shift, and test whether joint multi-dataset training and the addition of
 structured patient and nodule features (expert TI-RADS total score, nodule
-dimensions, age and sex) can mitigate the resulting performance gap. Our
-contributions are threefold: (1) we quantify the external-generalization gap
-of a single-dataset model on two independent cohorts and show that
-multi-dataset training recovers part of the gap, including on a cohort that
-never contributed training data; (2) we conduct a head-to-head comparison of image-only, clinical-only, full five-feature fusion, and feature-specific fusion models to isolate the incremental value of structured features; and (3) we report calibration (expected calibration
-error and Brier score) and decision curve analysis to assess clinical
-utility, following the STARD 2015 and TRIPOD+AI reporting guidelines.
+dimensions, age and sex) can mitigate the resulting performance gap. Our contributions are threefold. First, we quantify the external-generalization gap of a single-dataset model on two independent cohorts and show that multi-dataset training recovers part of the gap, including on a cohort that never contributed training data. Second, we compare image-only, clinical-only, full five-feature fusion and feature-specific fusion models head-to-head to isolate the incremental value of structured features. Third, we report calibration (expected calibration error and Brier score) and decision curve analysis to assess clinical utility, following the STARD 2015 and TRIPOD+AI reporting guidelines.
 
 ## 2. Methods
 
@@ -312,7 +303,7 @@ with sensitivity 94.8% and specificity 75.7% (expected calibration error
 0.729 to 0.813 (95% CI 0.779–0.846; matched Δ = +0.085), with sensitivity
 67.4%, specificity 78.8% and expected calibration error 0.050 (Table 2;
 Figures 2–4). Joint training therefore recovered approximately half of the
-observed AUC loss on the external TN3K cohort. Note that the official TN3K
+observed AUC loss on the external TN3K cohort. The official TN3K
 test set is a target-domain held-out evaluation, because TN3K training images
 contributed to the joint model; Thy-Wise, by contrast, never contributed
 training data and is the completely unseen cohort. At the fixed 0.5 decision threshold, net benefit on the TN3K official test increased from 0.062 (single-dataset) to 0.129 (joint), compared with 0.000 for treating none (Figure 3b), and was associated with a higher net benefit at the fixed 0.5 threshold, suggesting potential clinical utility.
@@ -409,17 +400,7 @@ significant (ΔAUC +0.007; paired bootstrap 95% CI 0.002–0.013, two-sided
 p = 0.012), and the feature-level ablation (Table 5) showed a larger gain for
 image + TI-RADS (ΔAUC +0.021). The five-feature fusion also showed higher
 AUPRC (0.939 vs. 0.930) and specificity (0.940 vs. 0.909) than image-only, at
-a modest cost in sensitivity (0.725 vs. 0.779). In an exploratory
-threshold analysis, predictive values were examined at the Youden-optimal
-operating point determined on the test cohort: the image + TI-RADS model achieved balanced positive and negative predictive values (PPV 0.860, NPV 0.943), above the full five-feature fusion (PPV 0.856, NPV 0.898), image-only (PPV 0.815, NPV 0.920) and clinical-only (PPV 0.688, NPV 0.835) models, suggesting that the gain in discrimination of the best-performing configuration does not come at the cost of poorer predictive values (Figure 8). Because this operating point was derived from the test cohort, these predictive values illustrate achievable performance at a Youden-optimal threshold rather than an unbiased prospective estimate. The ThyroidXL test cohort was 47.8% malignant, compared with 26.1% in the development set; this difference in prevalence is relevant to interpreting the fixed-threshold and Youden-threshold operating points reported here. The clinical-only
-model, using only the five structured features, was markedly inferior
-(AUPRC 0.735), and at the fixed 0.5 threshold it degenerated to predicting all
-nodules as benign (sensitivity 0.00, specificity 1.00), reflecting both the
-modest predictive information in these five features alone and the low
-malignancy prevalence of the development set (26.1%), which compresses the
-predicted probabilities below the fixed 0.5 threshold; the clinical-only
-model's value therefore lies in its ranking ability (nodule-level AUC 0.814)
-rather than in absolute probabilities at a fixed operating point. The image-only model was best calibrated
+a modest cost in sensitivity (0.725 vs. 0.779). In an exploratory threshold analysis, predictive values were examined at the Youden-optimal operating point determined on the test cohort. The image + TI-RADS model achieved balanced positive and negative predictive values (PPV 0.860, NPV 0.943), above the full five-feature fusion (PPV 0.856, NPV 0.898), image-only (PPV 0.815, NPV 0.920) and clinical-only (PPV 0.688, NPV 0.835) models. The gain in discrimination of the best-performing configuration therefore did not come at the cost of poorer predictive values (Figure 8). Because this operating point was derived from the test cohort, these predictive values illustrate achievable performance at a Youden-optimal threshold rather than an unbiased prospective estimate. The ThyroidXL test cohort was 47.8% malignant, compared with 26.1% in the development set; this difference in prevalence is relevant to interpreting the fixed-threshold and Youden-threshold operating points reported here. The clinical-only model, using only the five structured features, was markedly inferior (AUPRC 0.735) and, at the fixed 0.5 threshold, degenerated to predicting all nodules as benign (sensitivity 0.00, specificity 1.00). This reflects both the modest predictive information in these five features alone and the low malignancy prevalence of the development set (26.1%), which compresses predicted probabilities below 0.5. The clinical-only model's value therefore lies in its ranking ability (nodule-level AUC 0.814) rather than in absolute probabilities at a fixed operating point. The image-only model was best calibrated
 (ECE 0.087), while the clinical-only model was substantially miscalibrated
 (ECE 0.248) and the full five-feature fusion model intermediate (ECE 0.118); the fusion gain in
 discrimination therefore came with a small cost in calibration relative to
@@ -460,12 +441,7 @@ threshold, and ACC, ECE and Brier are not defined because the expert score is
 an ordinal 1–5 scale rather than a continuous probability. AUPRC = area
 under the precision-recall curve. Table 4 reports seed-42 single-run estimates.
 
-As a robustness check, two additional fusion
-models were trained with the same protocol (pos_weight = 1.0) and different
-seeds (123 and 2024); individual seed AUCs ranged 0.947–0.949, and averaging
-the test predictions across the three models improved the nodule-level AUC to
-0.951 (95% CI 0.937–0.964) and AUPRC to 0.944 (Supplementary Table S3),
-confirming robustness of the ablation result across training seeds. The fusion
+As a robustness check, two additional fusion models were trained with the same protocol (pos_weight = 1.0) and different seeds (123 and 2024). Individual seed AUCs ranged 0.947–0.949, and averaging the test predictions across the three models improved the nodule-level AUC to 0.951 (95% CI 0.937–0.964) and AUPRC to 0.944 (Supplementary Table S3). The ablation result was therefore robust across training seeds. The fusion
 gain over image-only was statistically significant (ΔAUC +0.007; paired
 bootstrap 95% CI 0.002–0.013, two-sided p = 0.012).
 
@@ -587,9 +563,7 @@ deserves emphasis because it reflects factors that internal testing cannot
 expose: TN5000 and TN3K were acquired with different devices at different
 institutions, and their label prevalence differs substantially (71.5% vs
 34.6% malignant), which partly explains the concurrent fall in sensitivity at
-a fixed operating threshold. A second external cohort (Thy-Wise) confirmed
-that the magnitude of this shift is cohort-specific. Comparable degradation
-across devices has been reported in the domain-adaptation literature [17,18].
+a fixed operating threshold. A second external cohort (Thy-Wise) confirmed that the magnitude of this shift is cohort-specific. Unlike CT or MRI, where acquisition protocols are largely standardised, ultrasound depends on the operator and the device: transducer frequency, gain and focus settings and plane selection alter the image statistics of the same nodule, and referral populations differ in malignancy prevalence. Prevalence shift affects calibration as well as discrimination, because a model trained on a cohort with 71.5% malignancy will behave differently in lower-prevalence populations (34.6% in TN3K, 27.3% in Thy-Wise). Comparable degradation across devices has been reported in the domain-adaptation literature [17,18].
 Our results align with the emerging consensus that single-dataset AUCs
 substantially overestimate real-world performance, and support the importance
 of external validation before clinical deployment
@@ -613,7 +587,7 @@ TI-RADS score, nodule width and height, age and sex) could stabilise
 predictions under domain shift was tested directly in the ThyroidXL ablation:
 age and sex are independent of image acquisition, whereas the TI-RADS score
 and nodule dimensions are structured measurements derived from ultrasound
-assessment that may remain informative when pixel statistics degrade. The incremental value of structured information was mainly attributable to the expert TI-RADS score rather than demographic or size features (Section 3.5). Notably, adding all five structured features did not improve upon TI-RADS-only augmentation: the full five-feature fusion (AUC 0.947) did not exceed image + TI-RADS (AUC 0.960). This may reflect redundancy among structured variables, limited incremental information from age, sex and nodule dimensions, or optimization effects in the multimodal head; importantly, the feature-level ablation indicates that the gain was not achieved by indiscriminate feature accumulation. The clinical-only model was markedly inferior (AUC 0.814) and poorly calibrated (ECE 0.248). The full five-feature fusion model was slightly less well calibrated than the image-only model (ECE 0.118 vs. 0.087),
+assessment that may remain informative when pixel statistics degrade. The incremental value of structured information was mainly attributable to the expert TI-RADS score rather than demographic or size features (Section 3.5). Adding all five structured features did not improve upon TI-RADS-only augmentation: the full five-feature fusion (AUC 0.947) did not exceed image + TI-RADS (AUC 0.960). This may reflect redundancy among structured variables, limited incremental information from age, sex and nodule dimensions, or optimization effects in the multimodal head; importantly, the feature-level ablation indicates that the gain was not achieved by indiscriminate feature accumulation. The clinical-only model was markedly inferior (AUC 0.814) and poorly calibrated (ECE 0.248). The full five-feature fusion model was slightly less well calibrated than the image-only model (ECE 0.118 vs. 0.087),
 indicating that the added structured features improved ranking without
 proportionally improving the reliability of the predicted probabilities at the
 fixed decision threshold. Two implications follow. First, image features remained the primary discriminative signal, yet the expert TI-RADS score added a substantial incremental gain (nodule-level AUC 0.939 → 0.960), whereas demographic and size features contributed little (Section 3.5). Second, structured features alone (clinical-only model, AUC 0.814) were insufficient for reliable discrimination. The large gain of image + TI-RADS over image-only is consistent with TI-RADS encoding structured expert assessment that is related to, but not identical with, the information extractable from raw ultrasound pixels. This tempers the
@@ -633,6 +607,8 @@ The wide confidence intervals in the TR2-3 subgroup (which contained only four
 malignant nodules) caution against over-interpreting the largest point
 estimate, and the subgroup results should be confirmed in larger,
 multi-device cohorts.
+
+**A practical caveat.** The best-performing configuration still depends on an expert TI-RADS score and is therefore not fully automated. That does not remove the need for AI: image analysis alone matched the TI-RADS total score (AUC 0.939 vs. 0.929), and the combination improved on both. The most plausible clinical role is as a second opinion that reduces subjectivity in low-to-intermediate risk nodules, where the fusion gain was largest, rather than as a replacement for the reporting radiologist. Routine deployment would require systematic expert scoring in the reading workflow or automated extraction of TI-RADS descriptors, which is an active area of work [4].
 
 **Comparison with recent ThyroidXL-based studies.** Since ThyroidXL became
 available, at least one framework has reported very high patient-level
@@ -664,17 +640,14 @@ discrimination. Decision curves (Figure 7) further show that the models provide 
 0.5 decision threshold, sensitivity (90.6% internally) exceeded
 specificity (75.2%), reflecting both the class imbalance of the training data
 (71.5% malignant) and the clinical trade-off in nodule triage, where
-over-referral is preferable to a missed malignancy; the operating point should
-be selected to match the clinical setting, and the decision curves provide the
-information to do so explicitly.
+over-referral is preferable to a missed malignancy; the operating point should be selected to match the clinical setting, and the decision curves provide the information to do so explicitly. These results also illustrate that calibration is prevalence-dependent: the clinical-only model, trained on a development set with 26.1% malignancy, was systematically under-confident in the higher-prevalence test cohort (47.8% malignant), which is why its ECE reached 0.248; the slightly higher ECE of the full fusion model (0.118 vs. 0.087 for image-only) may reflect the contribution of this poorly calibrated clinical branch. Temperature scaling improved the fusion model modestly (ECE 0.118 → 0.109), and probability post-processing should be re-evaluated whenever a model is deployed at a site whose prevalence differs from the development cohort.
 
 **Error patterns.** At a fixed 0.5 threshold, the image + TI-RADS model on the ThyroidXL test cohort produced more false negatives than false positives (66 vs. 18 of 739 nodules), i.e. a tendency to under-call malignancy (Figure 10). This
 asymmetry is consistent with the low prevalence of malignancy in the ThyroidXL
 development set (26.1%) and the high specificity attained by the model; in
 clinical triage, where missing a malignancy is the more serious error, a lower
 decision threshold or a sensitivity-constrained operating point would be
-preferred. This illustrates the importance of explicit threshold selection
-rather than a fixed default.
+preferred. This shows that the decision threshold should be chosen explicitly rather than left at a fixed default.
 
 **Limitations.** Several limitations must be acknowledged. First, labels in the
 datasets arise from heterogeneous ground-truth sources (biopsy-confirmed
@@ -716,9 +689,7 @@ added to training (external AUC 0.813 vs. 0.729 on the matched official test,
 cohort (Thy-Wise), the same joint training provides a comparable gain
 (nodule-level AUC 0.608 → 0.710, +0.102). External
 performance is therefore strongly cohort-dependent, yet the benefit of
-multi-dataset pooling transfers to unseen distributions; image-only models
-showed limited robustness across the evaluated cross-dataset settings,
-highlighting the need for external validation before clinical deployment. On a fourth cohort (ThyroidXL), the incremental value of structured information was mainly attributable to the expert ACR TI-RADS score: image + TI-RADS achieved a nodule-level AUC of 0.960 (paired ΔAUC +0.021, 95% CI 0.008–0.035, p = 0.003 vs. image-only 0.939), whereas demographic and size features added little and the full five-feature fusion achieved 0.947; the clinical-only model was markedly inferior (AUC 0.814) and poorly calibrated. Together, these findings support the importance of external validation before clinical deployment of ultrasound-based thyroid nodule classifiers, and indicate that structured expert assessment (TI-RADS) provides a valuable complement to image analysis, with the largest incremental gain obtained when combined with image features; image features remained the primary discriminative signal, while expert TI-RADS provided substantial complementary information.
+multi-dataset pooling transfers to unseen distributions; image-only models showed limited robustness across the evaluated cross-dataset settings. These results support the importance of external validation before clinical deployment. On a fourth cohort (ThyroidXL), the incremental value of structured information was mainly attributable to the expert ACR TI-RADS score. Image + TI-RADS achieved a nodule-level AUC of 0.960 (paired ΔAUC +0.021, 95% CI 0.008–0.035, p = 0.003 vs. image-only 0.939), whereas demographic and size features added little and the full five-feature fusion achieved 0.947. The clinical-only model was markedly inferior (AUC 0.814) and poorly calibrated. Together, these findings support the importance of external validation before clinical deployment of ultrasound-based thyroid nodule classifiers, and indicate that structured expert assessment (TI-RADS) provides a valuable complement to image analysis, with the largest incremental gain obtained when combined with image features; image features remained the primary discriminative signal, while expert TI-RADS provided substantial complementary information.
 
 ## Declarations
 

diff --git a/paper/output/cover_letter_bmc.md b/paper/output/cover_letter_bmc.md
@@ -1,18 +1,16 @@
 # Cover Letter — BMC Medical Imaging
 
-> 作者、通讯作者与 GitHub URL 已填写；日期在投稿当日更新。
-
 13 August 2026
 
 Dear Editors,
 
-We submit our manuscript entitled "External generalization and domain shift in thyroid ultrasound AI: quantifying cross-dataset performance, multi-dataset training, and the incremental value of structured features" for consideration in *BMC Medical Imaging*. The journal's emphasis on image-analysis methodology and its audience of medical-imaging researchers make it the natural venue for a study whose central contribution is a rigorous, reproducible quantification of how well deep-learning thyroid nodule classifiers generalise across institutions and devices.
+We submit our manuscript entitled "External generalization and domain shift in thyroid ultrasound AI: quantifying cross-dataset performance, multi-dataset training, and the incremental value of structured features" for consideration in *BMC Medical Imaging*. The journal's focus on image-analysis methodology and its readership of medical-imaging researchers make it a natural fit for a study that quantifies how well deep-learning thyroid nodule classifiers generalise across institutions and devices.
 
-The unresolved clinical question is not whether artificial intelligence can read thyroid ultrasound — dozens of single-centre reports have answered that with high internal accuracy — but whether that accuracy survives real-world deployment, where models trained on one institution's images are applied to patients scanned elsewhere. Most published models are never externally validated. Using four fully public datasets (TN5000, TN3K, Thy-Wise, ThyroidXL), this study quantifies cross-dataset domain shift directly: an image-only model achieving an internal test AUC of 0.915 drops to 0.712 on the full external TN3K cohort (0.729 on the matched official test split) — a 0.20 gap that single-cohort evaluation completely misses. We then test two practical mitigation strategies — joint multi-dataset training and fusion of structured clinical features — and report transparently what helps and what does not.
+Most published thyroid ultrasound classifiers report high accuracy on a single internal test set, and few are evaluated on images acquired at other institutions or with other devices. Using four fully public datasets (TN5000, TN3K, Thy-Wise, ThyroidXL), this study measures the resulting gap directly. An image-only model that reached an internal test AUC of 0.915 fell to 0.712 on the full external TN3K cohort (0.729 on the official test split) and to 0.608 on the completely unseen Thy-Wise cohort. Joint multi-dataset training recovered roughly half of the observed AUC loss on the cohort added to training (0.729 to 0.813 on the matched official test) and produced a comparable gain on Thy-Wise (0.608 to 0.710). An equal-sample-size control indicated that the benefit was not explained by sample size alone.
 
-All experiments used leakage-free, patient-grouped splits (MD5-verified across cohorts), bootstrap confidence intervals, and full reporting of calibration (expected calibration error) and decision curves, following STARD 2015 and TRIPOD+AI. Joint training recovered roughly half of the observed AUC loss on both the cohort added to training (external AUC 0.729 to 0.813 on the matched official test) and a fully unseen, pathology-confirmed cohort (Thy-Wise nodule-level AUC 0.608 to 0.710). On ThyroidXL, fusing image features with five structured clinical features yielded a small but statistically significant gain over image-only classification (nodule-level AUC 0.947 vs 0.939; paired bootstrap ΔAUC +0.007, 95% CI 0.002–0.013, p = 0.012; three-seed ensemble AUC 0.951), with the benefit concentrated in low-to-intermediate risk subgroups. The negative results are reported as candidly as the positive ones: the clinical-only model was markedly inferior and poorly calibrated, and the fusion gain was modest on this single-device cohort.
+On ThyroidXL we compared image-only, clinical-only, full five-feature fusion and feature-specific fusion configurations. The incremental value of structured information was mainly attributable to the expert ACR TI-RADS score: adding TI-RADS to the image model improved the nodule-level AUC from 0.939 to 0.960 (paired ΔAUC +0.021, 95% CI 0.008–0.035, p = 0.003), whereas age, sex and nodule dimensions added little. The clinical-only model was markedly inferior (AUC 0.814) and poorly calibrated. Throughout, we report calibration (expected calibration error, Brier score), decision curves, subgroup analyses and error patterns alongside discrimination, using leakage-free patient-grouped splits and bootstrap confidence intervals, following STARD 2015 and TRIPOD+AI.
 
-The findings matter to your readership for three reasons. First, they provide concrete, public-data evidence for a message the field increasingly recognises: single-dataset AUCs substantially overestimate real-world performance, and external validation is a prerequisite for deployment. Second, they establish a reproducible protocol and open benchmark — public data, released code, and completed STARD 2015 / TRIPOD+AI checklists — that other groups can adopt. Third, by reporting calibration, decision curves, subgroup analyses and error patterns alongside discrimination, the study demonstrates the reporting standards now expected of imaging-AI papers. Code is available at https://github.com/ojdanajakir848-a11y/thyroid.
+We believe the study offers your readers two practical things: public-data evidence on how much single-dataset AUCs overestimate real-world performance, and a reproducible protocol (public data, released code, completed STARD 2015 and TRIPOD+AI checklists) for evaluating domain shift and the incremental value of structured features in thyroid ultrasound AI. Code is available at https://github.com/ojdanajakir848-a11y/thyroid.
 
 We confirm that this manuscript is original, has not been published previously, and is not under consideration by any other journal. All authors have read and approved the manuscript and its submission. The authors declare no competing interests. Ethical approval was not required because the study used only de-identified images from publicly available, licensed datasets. We would be happy to suggest potential reviewers on request.
 
